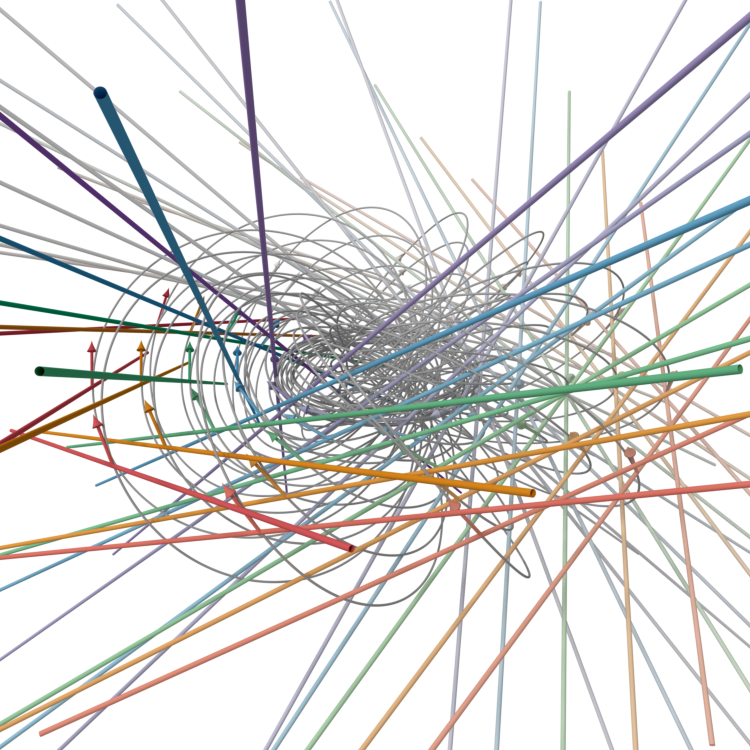
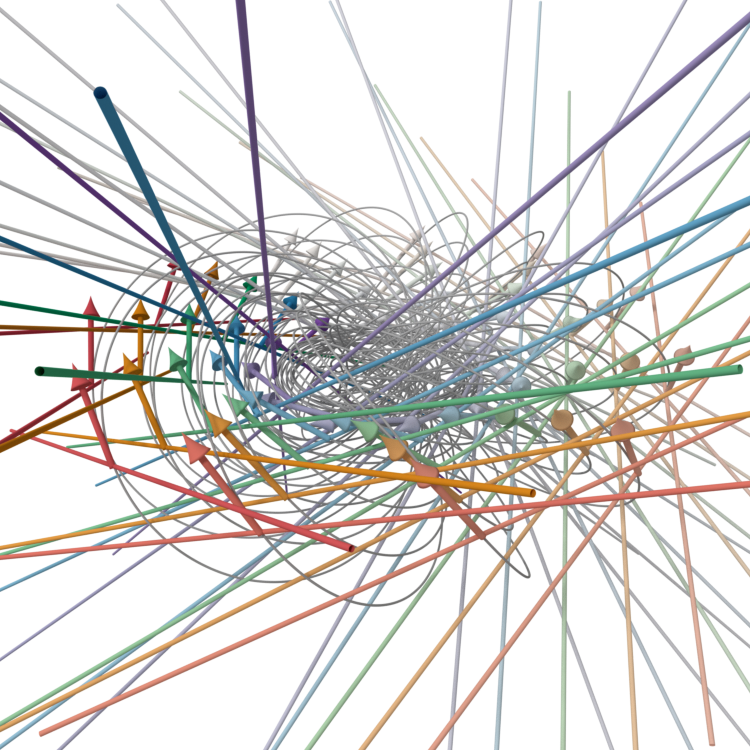
added nulltropesneg

diff --git a/fig/nulltropes/nulltropesneg.py b/fig/nulltropes/nulltropesneg.py
@@ -1,0 +1,85 @@
+# posindex_start.py: generate a plot of the vector field around a 3d magnetic null.
+# A yellow transparend sphere is located at the origin, and the vector field of the
+# null is shown by it's integral curves, as well as vectors located on the surface
+# of a ball around the null
+#
+#
+#
+
+import os, sys, inspect       # For importing the submodules in a platform-independend robust way
+import numpy as np
+import matplotlib.pyplot as plt
+import matplotlib.cm as cm
+import matplotlib
+import bpy                    # This module is only available inside of Blender's version of python, comment when debugging
+from functools import partial # create new funtions from old functions (and strip the kwargs)
+# Make sure that the path to BlenDaViz and the integration library are in the front of the path.
+code_folder = os.path.realpath(os.path.abspath(os.path.join(os.path.split(inspect.getfile( inspect.currentframe() ))[0],"../../code")))
+if code_folder not in sys.path:
+     sys.path.insert(0, code_folder)
+
+import integrate as ig
+import BlenDaViz as bz
+
+def isofield(xx):
+    return xx/np.sqrt(np.sum(xx**2))**3
+
+startlen = .35
+
+# generate the points at which vectors are to be evaluated
+ncirc=10
+ncircvec=20
+vecpoints = [[np.array((np.sqrt(1-z**2)*np.cos(t), np.sqrt(1-z**2)*np.sin(t), z))
+                        for t in np.linspace(np.pi, 3*np.pi, ncircvec+1)[:ncircvec]]
+                            for z in np.cos(np.linspace(0,np.pi,ncirc+2)[1:-1])]
+vecpoints.append([np.array((0,0,1))])
+vecpoints.append([np.array((0,0,-1))])
+
+#generate the points from which streamlines are to be traced
+nstreams=20
+streampoints = []
+for r in np.linspace(0.01, 0.5, 3):
+    streampoints.extend(ig.circlePoints(np.array((0,0,1)), radius = r, slide=8,
+        npoints = nstreams, rot=50*r))
+    streampoints.extend(ig.circlePoints(np.array((0,0,1)), radius = r, slide=-8,
+        npoints = nstreams, rot=50*r))
+
+fn=partial(ig.ZeroField, index=1)
+#def fn(xx): return np.array((0,0,1))
+
+streams = ig.stream_multi(streampoints, vvfn=fn, tol=1e-7, iterMax=1000000, intdir = 'back')
+lines = []
+for stream in streams:
+    print('plotting stream...')
+    lines.append(bz.plot(stream.x, stream.y, stream.z, color = (1,1,1), radius=0.01))
+
+isotropes = []
+vecs = []
+vc = cm.get_cmap('plasma', ncirc) # vertical colors
+for num1, veccirc in enumerate(vecpoints):
+    cdict = {'red':   [[0.0,  vc(num1)[0], vc(num1)[0]],
+                       [1.0,  .5, .5]],
+             'green': [[0.0,  vc(num1)[1], vc(num1)[1]],
+                       [1.0,  .5, .5]],
+             'blue':  [[0.0,  vc(num1)[2], vc(num1)[2]],
+                       [1.0,  .5, .5]]}                  #colordict that starts with plamsa colors and ends at grey
+    cmap = matplotlib.colors.LinearSegmentedColormap('map'+str(num1), segmentdata=cdict)
+    norm = plt.Normalize(vmin=0, vmax=ncircvec)
+    s_m = plt.cm.ScalarMappable(cmap = cmap, norm = norm)
+    tropecircback = ig.stream_multi(veccirc, vvfn=isofield, tol=1e-7, iterMax=1000000, intdir = 'back')
+    tropecircforward = ig.stream_multi(veccirc, vvfn=isofield, tol=1e-7, iterMax=1000000, intdir = 'forward')
+    for num2, (forstream, backstream) in enumerate(zip(tropecircforward, tropecircback)):
+        #print(num2,point)
+        color = s_m.to_rgba(num2)
+        isotropes.append(bz.plot(forstream.x, forstream.y, forstream.z, color=color, radius=0.01))
+        isotropes.append(bz.plot(backstream.x, backstream.y, backstream.z, color=color, radius=0.01))
+    for num2, point in enumerate(veccirc):
+        #print(num2,point)
+        point =  point
+        color = s_m.to_rgba(num2)[:-1] # throw out the a of rgba
+        vecs.append(bz.vec(point, -fn(point), length=0.5, color=color))
+
+
+
+bpy.data.scenes['Scene'].render.filepath = '../nulltropesneg.png'
+bpy.ops.render.render(write_still=True)
